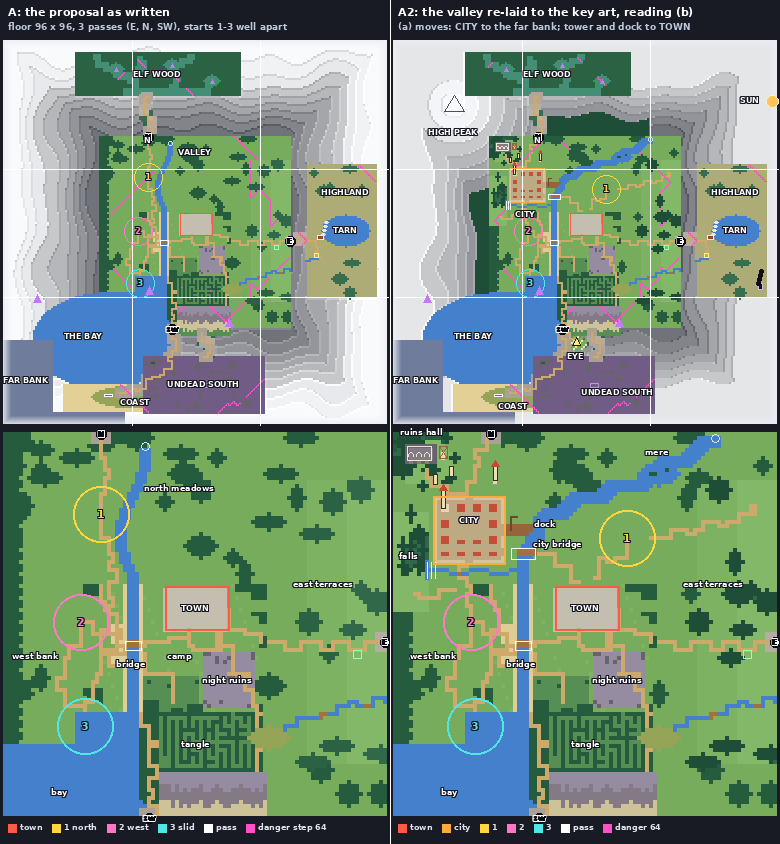
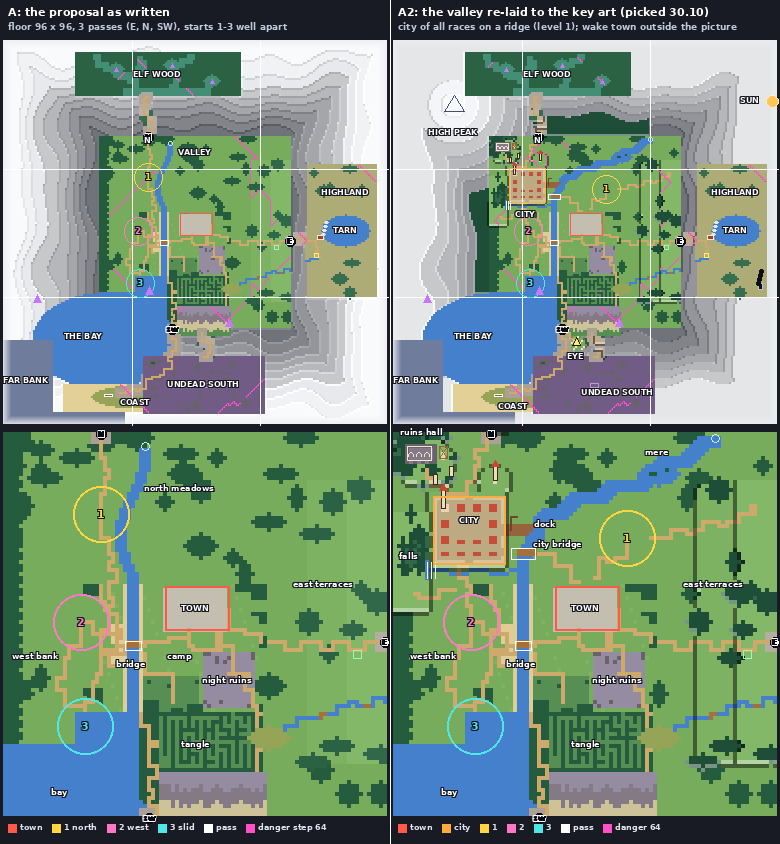
docs(first-map): A2 picked; the city is a city of all races on a ridge
The owner picked A2 on 30.10 and turned down both readings of the
picture's town: it is a city of all races, and the player wakes in the
authored block's small town outside the picture. FIRST_MAP.md quotes his
three notes and adds the heights: the city and the spire's rise stand on
a ridge at level 1 above the river meadow and the dock, under the ruins
hill and the falls' heights at 2. Every gate is a crossing (G68); the A2
still draws lips and feet of the faces (STYLE 6). Re-measured: starts,
passes and paths unchanged. DECISIONS records the pick.

Claude-Session: https://claude.ai/code/session_01PpsERwCkWdSN4BMgyNG1aK

diff --git a/docs/design/first-map/plan.py b/docs/design/first-map/plan.py
@@ -35,15 +35,16 @@ BRIDGE = (80, 101)  # the old bridge's middle (old (13..15, 17..18) + shift)
 TOWN = (96, 92)  # the town square's middle (old (26..29, 7..10) + shift is (92..95, 91..94))
 AREA_R = 7  # pocket_grown in content/core/pockets
 
-# A2: the valley re-laid to the key art (FIRST_MAP.md "The picture is the map"). The picture looks north from the south meadow:
-# west is its left, the low sun its right (east). Reading (b) is drawn: the walled town with the tall tower is the human city,
-# on the river's west bank at the bend, reached by its own bridge.
+# A2: the valley re-laid to the key art (FIRST_MAP.md "The picture is the map"), picked by the owner on 30.10. The picture looks
+# north from the south meadow: west is its left, the low sun its right (east). The walled town with the tall tower is a city of all
+# races on the river's west bank at the bend, on a ridge, reached by its own bridge; the wake town is the authored block.
 STARTS_A2 = {'N': ('North meadow', (106, 74)), 'W': ('West bank', (67, 95)), 'S': ('Slid bank', (68, 121))}
 CITY = (66, 72)  # the walled town's middle: walls x 58..75, y 64..80
 CITY_BOX = (58, 64, 75, 80)
 CITY_BRIDGE = (80, 78)  # the picture's arched bridge: the city's east gate to the east bank, rows 77..78
 PEAK = (30, 32)  # the one high peak, north-west (level 9; the rest of the ring tops out at 7)
-HILL = (55, 55)  # the ruins hill, level 2
+HILL = (55, 55)  # the ruins hill, level 2, above the city's ridge
+RIDGE_LV = 1  # the city's ridge: one level above the river meadow
 SHELF = (48, 68, 56, 92)  # the west heights, level 2; the falls drop off its east face at (57, 82)
 FALLS = (57, 82)
 LOOKOUT = (91, 151)  # the picture's eye: the south meadow where the three stand
@@ -429,7 +430,8 @@ def build(variant='A'):
         for i, (key, pts) in enumerate(PATHS_A2.items()):
             p.paths[key] = wind(pts, 40 + i, maxrun=6)
         keys = list(PATHS_A2) + keys[1:3] + keys[4:]
-        for key, how in (('ruins-climb', 'stair cut in the hill'), ('falls-climb', 'stair beside the falls'), ('terrace-track', 'cart ramp')):
+        for key, how in (('ruins-climb', 'stair cut in the hill'), ('falls-climb', 'stair beside the falls'), ('terrace-track', 'cart ramp'),
+                         ('north-track', 'steps down from the ridge'), ('city-south', 'steps down from the ridge')):
             p.crossings(p.paths[key], 1, how)
         brook = set(p.brook)
         for x, y in p.paths['city-south']:
@@ -546,6 +548,22 @@ def picture_places(p):
         for x in range(cx1 + 1, cx1 + 11):
             if p.g[y, x] == '~':
                 p.g[y, x] = 'j'
+    # heights (owner, 30.10: "the city sits on a certain ridge and below and above it there are more places"): the city and the
+    # spire's rise stand on a ridge at level 1, one above the river meadow (0) and the dock; the ruins hill and the falls' heights
+    # (2) and the peak (9) stand above it. Every gate is a crossing (G68): steps down to the meadow, a ramp to the bridge, a stair
+    # to the dock.
+    for y in range(cy0 - 1, cy1 + 2):
+        for x in range(cx0 - 1, cx1 + 1):
+            p.lv[y, x] = RIDGE_LV
+    for y in range(56, 64):
+        for x in range(69, 77):
+            if math.hypot((x - 73) / 4, (y - 60) / 4) <= 1 and p.g[y, x] in '.O':
+                p.lv[y, x] = RIDGE_LV
+    for (x0, y0, x1, y1), how in (((66, 79, 67, 82), 'steps down from the south gate'), ((66, 62, 67, 65), 'steps down from the north gate'),
+                                  ((74, 77, 77, 78), 'ramp down to the bridge'), ((74, 71, 77, 73), 'stair down to the dock')):
+        for y in range(y0, y1 + 1):
+            for x in range(x0, x1 + 1):
+                p.stairs[(x, y)] = how
     # the south meadow where the three stand: flowers, rocks, the mossy stones of an old wall on its north rim
     p.disc(LOOKOUT[0], LOOKOUT[1], 6, 4, '.', 0, only=set('^P'))
     for y in range(LOOKOUT[1] - 4, LOOKOUT[1] + 5):
@@ -740,6 +758,14 @@ def tile_image(p):
                 c = PAL.get(ch, (255, 0, 255))
                 if p.lv[y, x] > 0 and ch in 'kh.fT':
                     c = tuple(min(255, int(v + 6 * p.lv[y, x])) for v in c)
+                if getattr(p, 'variant', 'A') == 'A2':  # STYLE 6: a light lip on a top's edge, a dark foot under a face
+                    up = y > 0 and p.g[y - 1, x] not in '^P' and p.lv[y - 1, x] > p.lv[y, x]
+                    side = any(0 <= x + dx < N and p.g[y, x + dx] not in '^P' and p.lv[y, x + dx] > p.lv[y, x] for dx in (-1, 1))
+                    lip = y < N - 1 and p.g[y + 1, x] not in '^P' and p.lv[y + 1, x] < p.lv[y, x]
+                    if up or side:
+                        c = tuple(int(v * 0.55) for v in c)
+                    elif lip:
+                        c = tuple(min(255, int(v * 0.6 + 255 * 0.4)) for v in c)
                 img[y, x] = c
     return img
 
@@ -955,7 +981,7 @@ def main():
             'A': ('A: the proposal as written', 'floor 96 x 96, 3 passes (E, N, SW), starts 1-3 well apart'),
             'B': ('B tests: the size of the valley floor', 'floor 72 x 72 (A\'s outer 12 tiles are foothill forest); all else as A'),
             'C': ('C tests: how many passes', '2 passes (E, N): the south-west pass is closed; all else as A'),
-            'A2': ('A2: the valley re-laid to the key art, reading (b)', '(a) moves: CITY to the far bank; tower and dock to TOWN'),
+            'A2': ('A2: the valley re-laid to the key art (picked 30.10)', 'city of all races on a ridge (level 1); wake town outside the picture'),
         }[v]
         img = compose(p, d_town, cap[0], cap[1], m)
         img.save(WORK / f'still-{v}.png')

diff --git a/docs/design/FIRST_MAP.md b/docs/design/FIRST_MAP.md
@@ -64,7 +64,7 @@ Picture positions are pixels of the jpg (x, y from the top left); plan positions
 | The river: enters from the north-east distance (x 650-850, y 400-540), passes the town's east side, is widest at the bridge (x 440-800, y 640-720), then turns toward the viewer and swings south-west to the lower left (x 200-600, y 740-960) | Runs straight north to south from a spring at (80,51) along x 79-81 to the bay | Re-routed from the north-east: spring (128,49), down through (121,55), (110,61), (100,64), (90,68), the bend at (84,71)-(82,75), then (80,79) into the old river top at (80,84); 3 tiles wide. A's channel x 77-83, y 52-83 is meadow again. Below y 84 the river and the bay are unchanged | The authored block's river, bridge and bay do not move |
 | A lake with wooded islets where the river leaves the hills (x 650-900, y 430-540) | Missing | A mere at (114,58), 5 x 3 tiles, on the river; its islets are forest | The pocket rule turns the islets to trees |
 | The waterfall: several cascades off a cliff on the west heights, level with the bridge (x 40-130, y 640-760, about 90 x 120 px) | Missing; the west of the floor is flat meadow with a forest edge | The west heights: a shelf x 48-56, y 68-92 at level 2, pines on it; the falls drop off its east face at (56-57, 80-84); a brook runs east along y 82-83 from x 57 to the river at x 78, under the city's south wall; a stair beside the falls (53-63, 87-89) climbs the shelf | The brook gets a footbridge where the city's south road crosses it (64,83) |
-| The town with red roofs: about twenty houses, the largest built thing in the picture (x 240-720, y 440-640), on the river's west bank, smoke from the chimneys | The valley town at (96,92) is on the river's east bank; the human city is scenery on the far bank (x 0-24, y 150-191) | Reading (b) drawn: a walled city x 58-75, y 64-80 (18 x 17 tiles) on the west bank inside the bend; red-roofed blocks between streets, a square at (64-69, 70-74); gates south (66-67, 80), north (66-67, 64), east (75, 77-78), dock gate (75, 71-73) | The authored town keeps its place east of the river; in the picture that spot is behind the elf |
+| The town with red roofs: about twenty houses, the largest built thing in the picture (x 240-720, y 440-640), on the river's west bank, smoke from the chimneys | The valley town at (96,92) is on the river's east bank; the human city is scenery on the far bank (x 0-24, y 150-191) | A walled city x 58-75, y 64-80 (18 x 17 tiles) on the west bank inside the bend; red-roofed blocks between streets, a square at (64-69, 70-74); gates south (66-67, 80), north (66-67, 64), east (75, 77-78), dock gate (75, 71-73) | A city of all races (owner, 30.10); the authored wake town keeps its place east of the river, behind the elf in the picture |
 | Its tall tower: a stone tower with a smoking top, the tallest building (x 278-342, y 445-550), on the town's west side | Missing | Tower tiles (60-61, 66-67), the city's north-west corner | The city's landmark seen from the meadow |
 | A red-roofed spire on a wooded rise behind the town (x 520-550, y 385-460) | Missing | Spire tile (73, 59-60), on the rise north-east of the city | |
 | The bridge: a stone bridge of five arches with lamps (x 440-790, y 630-710), from the town's south-east to the east bank | One bridge, the first bridge (79-81, 100-101), on the authored block | A second bridge, the city bridge: rows 77-78 over the river (x 79-83), from the city's east gate to the east bank; a road from its east end (83,78) to the town's north side (94,85) | The first bridge stays as it is; the opening's way to it is untouched |
@@ -91,18 +91,29 @@ stand, south of the block at (91,151); start 1 moves from (72,68), now inside th
 **Measured on A2** (`measure.json`, key `A2`; A's numbers unchanged). Wake to bridge 55 / 17 / 30 (A 39 / 17 / 30); pairs 66 / 85 / **25**
 (nearest = west bank - slid bank, 2.8 x today's 9, as in A); the first bridge's view shows none of the three areas; every pass is walkable
 from the town (N 68, E 55, SW 74 steps); the city's east gate is 36 steps from the town, its square 50 (d0); no walkable tile is cut off;
-no path has a straight run over 7 (limit 8); danger tiles d0 4642, d1 6239, d2 775 (A 4541 / 6142 / 994). The authored block keeps its
+no path has a straight run over 7 (limit 8); danger tiles d0 4594, d1 6287, d2 775 since the ridge (A 4541 / 6142 / 994). The authored block keeps its
 ground and paths; the three passes stay where A has them.
 
-### The human city: two readings (the owner picks)
+### The city: the owner's reading (c), 30.10
 
-**(a) The picture's town is the valley town.** The walled town with the tall tower is the town the player starts near, the one the
-opening already has; the human city stays across the bay as scenery (G55 as it stands). The town stays east of the river where the
-authored block puts it (the picture's left and right are the painter's for this one place): its tall tower goes to the square's west edge
-(about (88,88)) and its dock and crane to the river beside it (about (82,90)); the first bridge is the picture's bridge, so the city bridge
-is not built; the west bank at x 58-75, y 64-80 is meadow again and start 1 can return to (72,68).
+The owner picked A2 and turned down both readings drawn on 29.10 (the picture's town as the wake town, or as the human city). His notes:
+- On A2: "Note that there is a city and above it there are ruins of a building, and the geography cannot be seen from the map: everything
+  has different angles and heights, the city sits on a certain ridge and below and above it there are more places. The game has to convey this."
+- On the wake town: "He wakes, as we decided, in another small town that is not seen in the picture (maybe the valley between the
+  mountains, or before or after the details of the picture)."
+- On the city: "This can be a mixed city of all the races (the vendors and the characters in the city will be random among them)."
 
-**(b) The picture's town is the human city, in the valley.** The walled town on the river's west bank, reached on foot over its own
-bridge, is the human city; it is no longer scenery sailed to, so G55 changes, and the far bank at the south-west corner is a skyline with
-no city. The human world opens from the valley's north-west instead of across the bay. The opening's town stays the town by the first
-bridge. A2 draws this reading; the caption of the still names what (a) would move.
+So A2's geography stands: the picture's walled town at the bend, with its own bridge and dock, is a city of all three races, its
+townspeople and vendors drawn at random from them; it is not the human city. The player wakes in the small town of the authored block,
+outside the picture, as A2 already lays it. G55 (the human city across the bay, scenery on the first map) is not changed by this pick; where
+the human city stands now that the valley has a city of all races is an open question for STORY.
+
+**Heights.** The picture's vertical structure is in the plan's height layer and shows in the still (STYLE 6: a light lip on a top's edge,
+a dark foot under a face). The city and the spire's rise stand on a ridge at level 1 (x 57-75, y 63-81, and round (73,60)), one level above
+the river meadow (0). Below the city: the dock (76-83, 71-73) and the river bank at level 0. Above it: the ruins hill round (55,55) and
+the falls' heights (x 48-56, y 68-92) at level 2, and the peak at (30,32) at 9. Every gate is a crossing (G68): steps down from the south
+gate (66-67, 79-82) and the north gate (66-67, 62-65), a ramp down to the bridge (74-77, 77-78), a stair down to the dock (74-77, 71-73);
+the ruins climb, the falls climb and the north track carry their own crossings. No step anywhere changes more than 3 levels; paths still
+run straight for at most 7. What changed on 30.10: the city's ridge went from level 0 to 1 (it stood on the meadow on 29.10); nothing else
+moved. Re-measured: the legs, pairs, passes and the city's distances are unchanged (the gates are crossings); danger tiles d0 4594, d1 6287,
+d2 775.

diff --git a/DECISIONS.md b/DECISIONS.md
@@ -3464,3 +3464,10 @@ The owner asked for the logo on every official page ("official places, the game'
 **What it fixes:** A is the picture of every official page (Mastodon and the Discord bot from 29.10, then Discord's server icon, Reddit, TikTok, YouTube and itch.io); a page about play may still wear a character. The source is `assets/logo.png` (800 px) in `Bobikobi/loomvale-community`; the frame is `docs/design/frames/2026-10-29-logo-A.png`.
 **Why:** A is the one that reads at 40 px and matches frame D's Cinzel and gold, which every window now wears (#415).
 **Retry when:** the game gets a wordmark of its own in the menu or the site, or A turns out too close to another game's mark; then B's valley is the next still to show. Model: Opus 5.5 (stills), the pick by the owner.
+
+## 2026-10-30 ✅ The first map is A2: the picture's city is a city of all races, the wake town stays outside the picture, and the heights must read
+
+The site's key art (`web/public/keyart/hero-poster.jpg`) is the first map's compass; A2 re-lays frame A to it ([docs/design/FIRST_MAP.md](docs/design/FIRST_MAP.md) "The picture is the map", [frame](docs/design/frames/2026-10-29-first-map-A2.png), A beside it in `2026-10-29-first-map-A-vs-A2.png`). The owner answered the pick page on 30.10: the key art is the compass, yes; A2, yes; the picture's town as the wake town, no ("He wakes, as we decided, in another small town that is not seen in the picture (maybe the valley between the mountains, or before or after the details of the picture)"); the picture's town as the human city, no ("This can be a mixed city of all the races (the vendors and the characters in the city will be random among them)").
+**What it fixes:** the walled city at the river bend with its own bridge and dock is a city of all three races, its townspeople and vendors drawn at random from them; the player wakes in the authored block's small town, outside the picture. On A2 he added: "the city sits on a certain ridge and below and above it there are more places. The game has to convey this." So the city stands on a ridge at level 1, the dock and the river bank below it at 0, the ruins hill and the falls' heights above it at 2, the peak at 9; every gate is a crossing (G68), and the still draws the faces (STYLE 6). Re-measured: the starts, passes and paths unchanged, danger tiles 4594 / 6287 / 775.
+**Open:** G55 (the human city across the bay as scenery) is not changed by this pick; where the human city stands is a question for STORY.
+**Retry when:** a playtest on a phone cannot tell the ridge from the meadow round it (then two levels, or a taller face), or STORY places the human city in a way that asks for the valley's city to change. Model: claude-opus-5-5 (the plan and the stills), the pick by the owner. PR #427.
